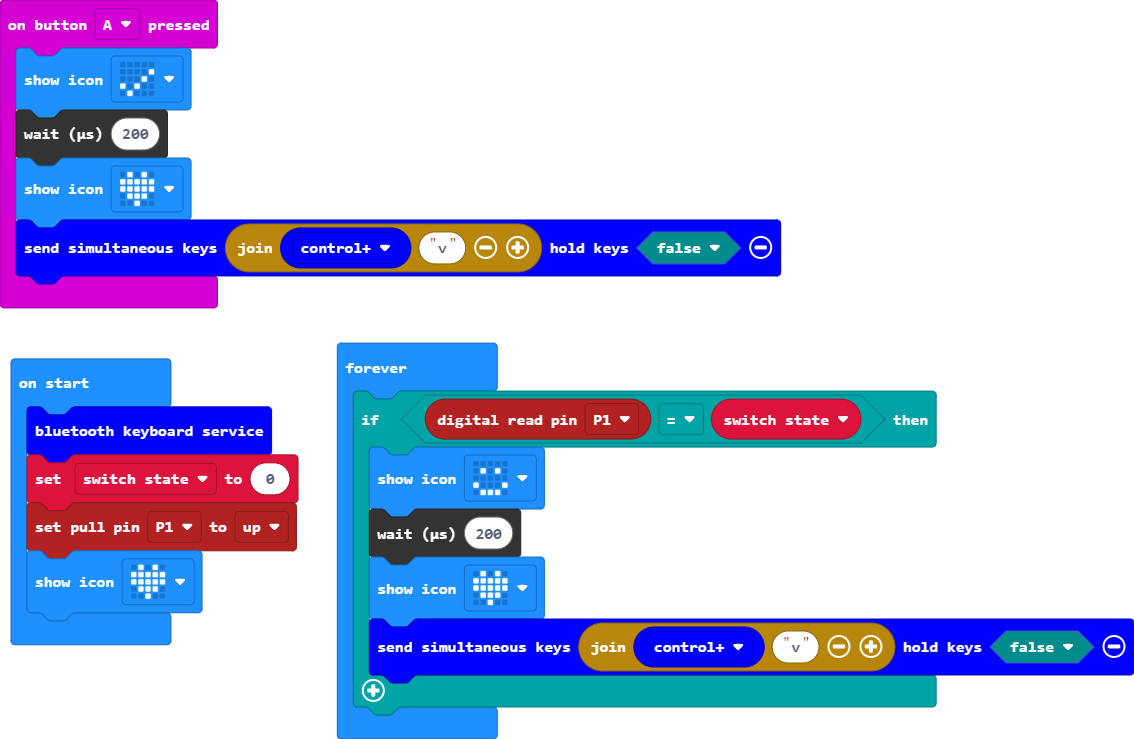
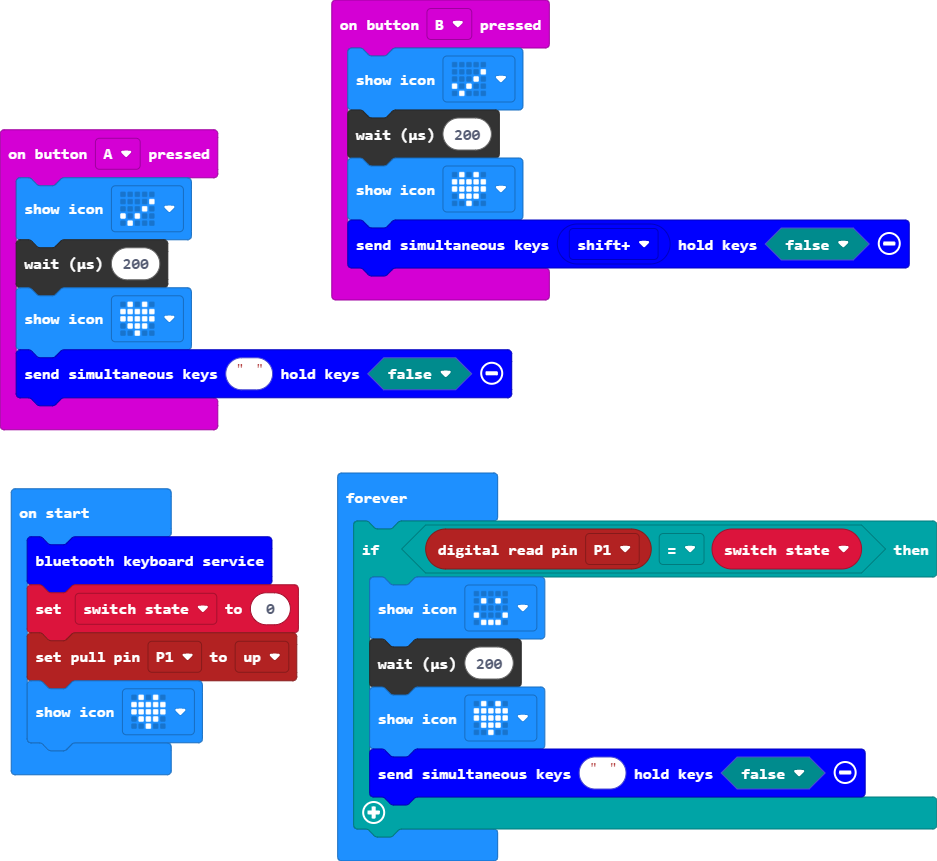
added B button to left shift key to bt connect with mac

diff --git a/main.ts b/main.ts
@@ -2,7 +2,13 @@ input.onButtonPressed(Button.A, function () {
     basic.showIcon(IconNames.Yes)
     control.waitMicros(200)
     basic.showIcon(IconNames.Heart)
-    keyboard.sendSimultaneousKeys("" + keyboard.modifiers(keyboard._Modifier.control) + "v", false)
+    keyboard.sendSimultaneousKeys(" ", false)
+})
+input.onButtonPressed(Button.B, function () {
+    basic.showIcon(IconNames.Yes)
+    control.waitMicros(200)
+    basic.showIcon(IconNames.Heart)
+    keyboard.sendSimultaneousKeys(keyboard.modifiers(keyboard._Modifier.shift), false)
 })
 keyboard.startKeyboardService()
 let switch_state = 0
@@ -13,6 +19,6 @@ basic.forever(function () {
         basic.showIcon(IconNames.Happy)
         control.waitMicros(200)
         basic.showIcon(IconNames.Heart)
-        keyboard.sendSimultaneousKeys("" + keyboard.modifiers(keyboard._Modifier.control) + "v", false)
+        keyboard.sendSimultaneousKeys(" ", false)
     }
 })
